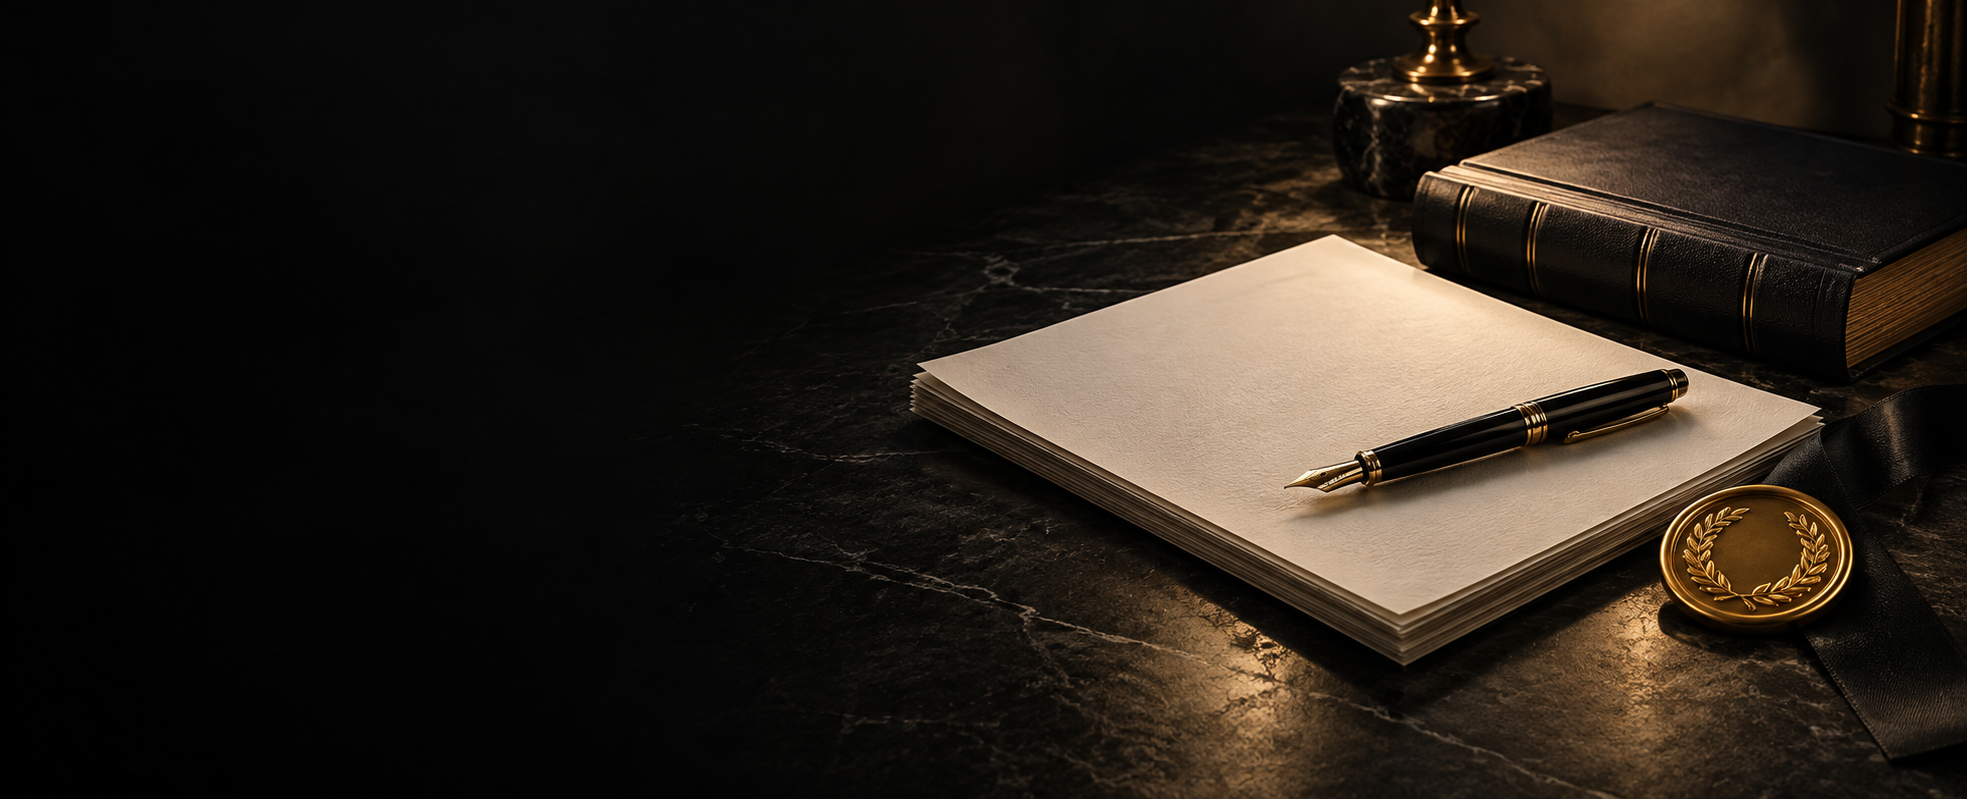
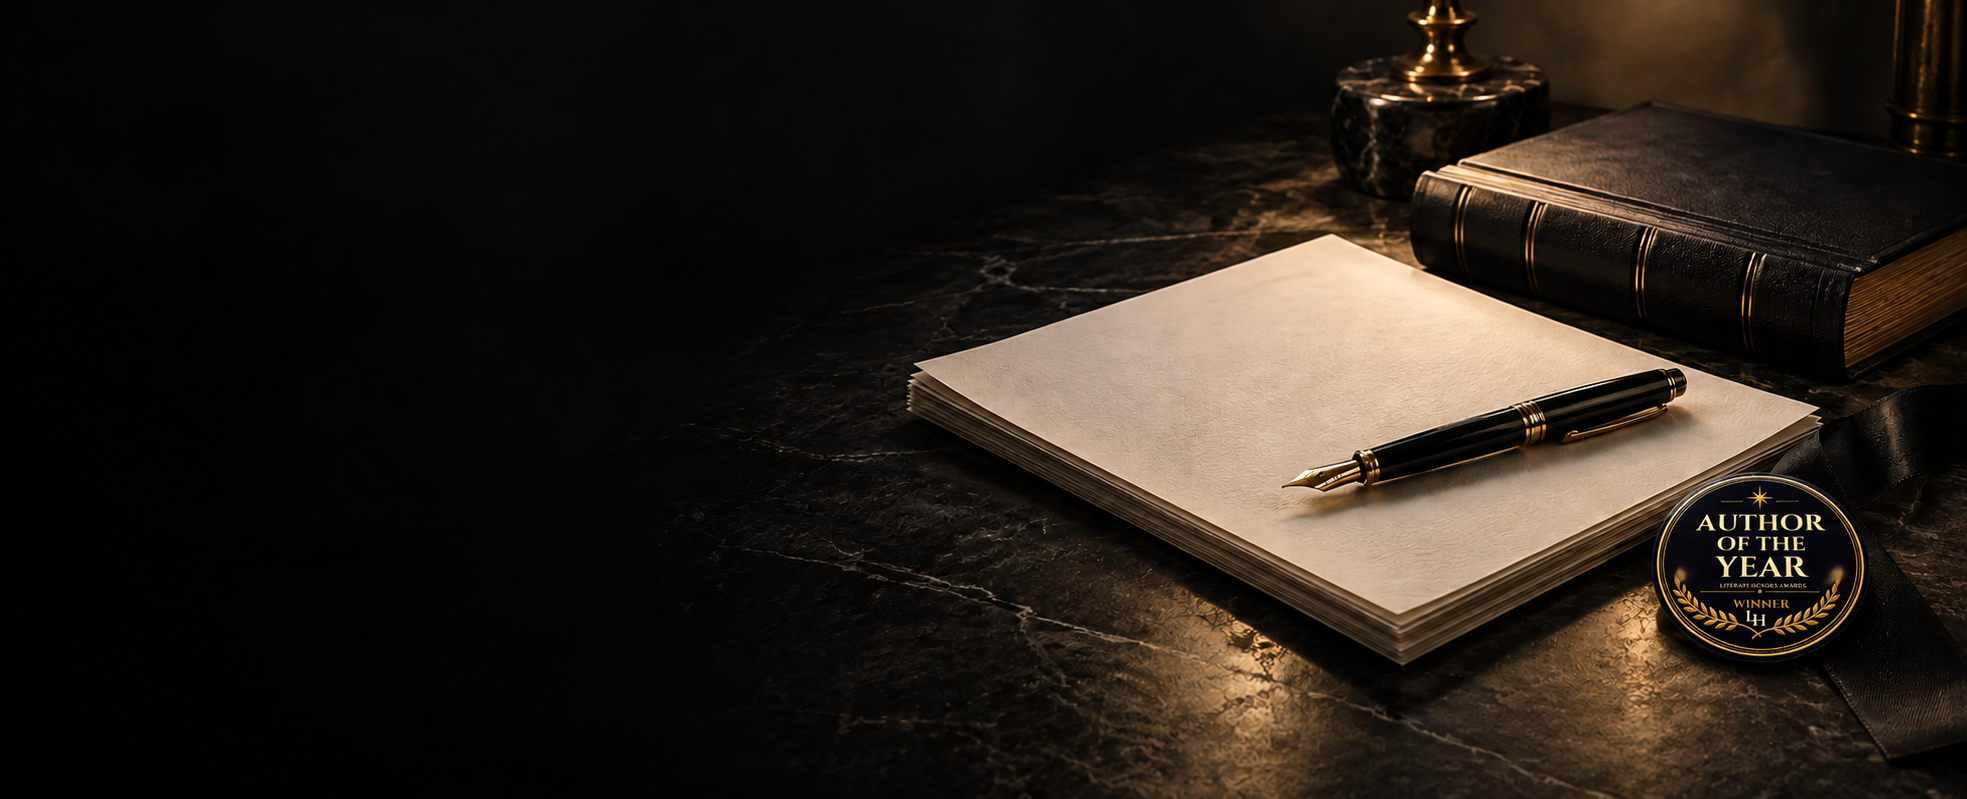
Space and fit the about page closing call to action

diff --git a/pages/winners.html b/pages/winners.html
@@ -1,6 +1,8 @@
 <!doctype html>
 <html lang="en" data-base="../">
 <head>
+    <!-------  Muhammad Adnan    ------>
+
     <meta charset="UTF-8">
     <meta name="viewport" content="width=device-width, initial-scale=1.0">
     <link rel="icon" href="../assets/images/literary-LOGO.jpeg" type="image/jpeg">
@@ -49,7 +51,7 @@
 
     <main>
         <section class="winners-hero" aria-labelledby="winners-title">
-            <img class="winners-hero-image" src="../assets/images/winner-hero.jpeg" alt="An honored author holding a book at a warmly lit literary awards ceremony" width="1774" height="887">
+            <img class="winners-hero-image" src="../assets/images/winner-hero.png" alt="An honored author holding a book at a warmly lit literary awards ceremony" width="1774" height="887">
             <div class="site-container winners-hero-inner">
                 <div class="winners-hero-copy">
                     <p class="winners-hero-eyebrow">Celebrating Excellence</p>

diff --git a/assets/css/about.css b/assets/css/about.css
@@ -932,11 +932,14 @@
 
 .about-final-cta {
     min-height: 635px;
+    /* breathing room above the closing call to action */
+    margin-top: 70px;
     background: #000;
 }
 
 .about-final-cta > img {
-    object-position: center;
+    /* keep the winner medal inside the frame */
+    object-position: right center;
 }
 
 .about-final-cta::after {
